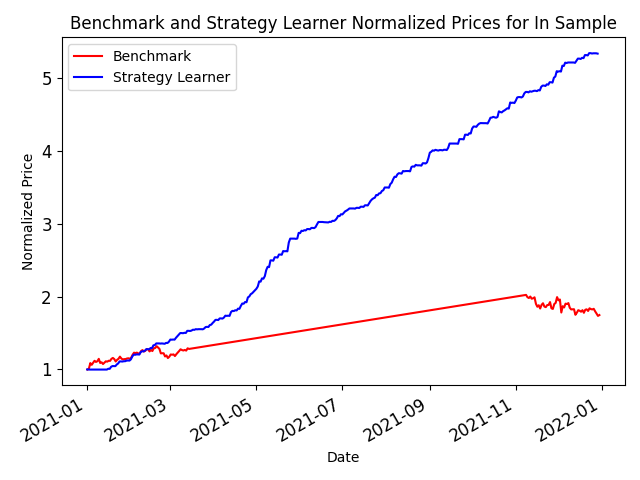
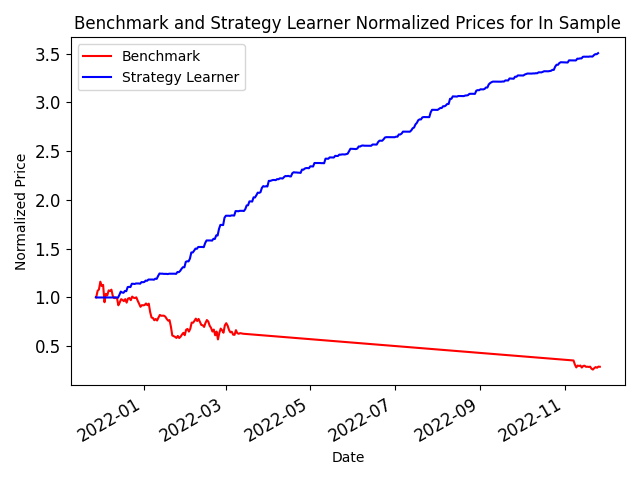
Changed update times to 06

diff --git a/experiment2.py b/experiment2.py
@@ -36,10 +36,16 @@ def make_trade(symbol, quantity, order_type, crypto):
 async def run_experiment(bar):
     global current_day
     if current_day == True:
-        current_day = dt.date.today() - dt.timedelta(days = 1)
+        current_day = dt.datetime.utcnow().date() - dt.timedelta(days = 2)
+        #current_day = dt.date.today() - dt.timedelta(days = 1)
     timestamp = bar.timestamp
-    converted_datetime = dt.date.fromtimestamp(timestamp/10**9)
-    if converted_datetime == current_day:
+    timestamp_seconds = timestamp/10**9
+    converted_datetime = dt.date.fromtimestamp(timestamp_seconds)
+    seconds_in_day = timestamp_seconds % 86400
+    bar_start = 21659 # we need to wait for the old bar to load (06:00:59 gives extra time)
+    too_late = 43200 # we don't want to do anything if it's afternoon
+    #too_late = 86400 # for testing only
+    if converted_datetime == current_day or seconds_in_day <= bar_start or seconds_in_day > too_late:
         return
     else:
         current_day = converted_datetime
@@ -47,12 +53,14 @@ async def run_experiment(bar):
     price = bar.close
     commission = 0
     impact = 0.0025
-    sd_in = dt.date.today() - dt.timedelta(days = 365)
+    sd_in = dt.datetime.utcnow() - dt.timedelta(days = 365)
+    ed_in = dt.datetime.utcnow()
+    """sd_in = dt.date.today() - dt.timedelta(days = 365)
     ed_in = dt.date.today()
     sd_in = dt.datetime(sd_in.year, sd_in.month, sd_in.day)
-    ed_in = dt.datetime(ed_in.year, ed_in.month, ed_in.day)
+    ed_in = dt.datetime(ed_in.year, ed_in.month, ed_in.day)"""
 
-    print(sd_in, ed_in)
+    print("Start and end date: ", sd_in, ed_in)
 
     buy_power = get_buy_power()
     current_position = get_current_position(symbol)

diff --git a/experiment1.py b/experiment1.py
@@ -55,14 +55,14 @@ def get_results(symbol, sd, ed, sv, commission, impact, num_shares, crypto):
 def run_experiment():
     start_val = 100000
     commission = 0
-    impact = 0.005
+    impact = 0.0025
     symbol = "ETH/USD"
     crypto = True
     num_shares = 25
-    sd_in = dt.datetime(2021, 1, 1)
-    ed_in = dt.datetime(2021, 12, 31)
-    sd_out = dt.datetime(2022, 1, 1)
-    ed_out = dt.datetime(2022, 12, 31)
+    sd_in = dt.datetime(2021, 11, 27)
+    ed_in = dt.datetime(2022, 11, 27)
+    sd_out = dt.datetime(2022, 11, 27)
+    ed_out = dt.datetime(2023, 11, 27)
     in_sample = get_results(symbol, sd_in, ed_in, start_val, commission, impact, num_shares, crypto)
     sl_result = strategy_learner(symbol, sd_in, ed_in, sd_out, ed_out, start_val, commission, impact, num_shares, crypto)
     sl_result_in = sl_result[0]

diff --git a/util.py b/util.py
@@ -84,6 +84,7 @@ def get_current_position(symbol):
 def make_trade(symbol, quantity, order_type, crypto):
     print("Symbol, quantity, order type")
     print(symbol, quantity, order_type)
+    print("\n")
     if order_type == 0:
         return
     
